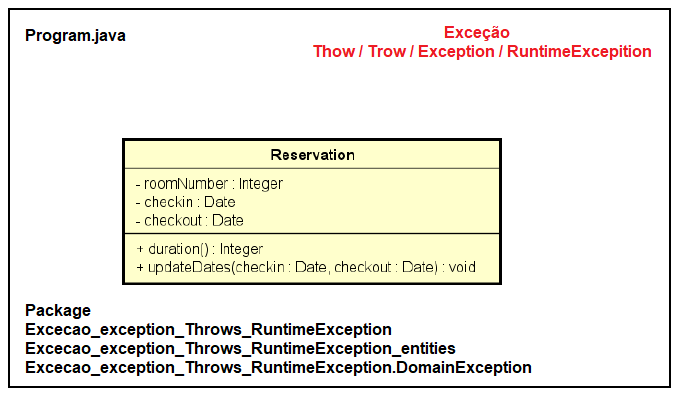
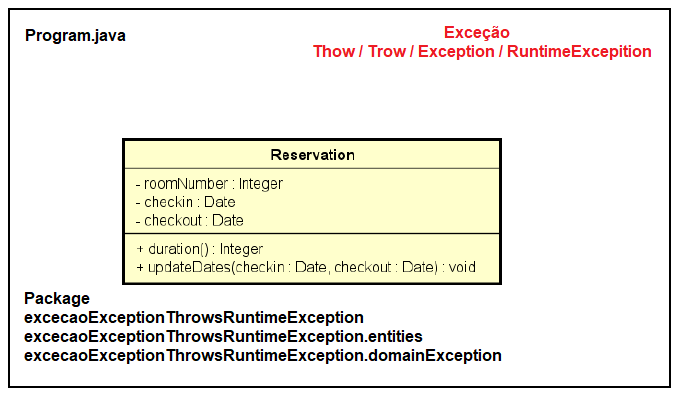
Exceção com Exception_Throws_RuntimeException

Changed region(s): [[0.0308, 0.7291, 0.8018, 0.9722]]

diff --git a/src/excecaoExceptionThrowsRuntimeException/Program.java b/src/excecaoExceptionThrowsRuntimeException/Program.java
@@ -1,12 +1,13 @@
-package Excecao_Exception_Throws_RuntimeException;
+package excecaoExceptionThrowsRuntimeException;
 
 import java.text.ParseException;
 import java.text.SimpleDateFormat;
 import java.util.Date;
 import java.util.Scanner;
 
-import Excecao_Exception_Throws_RuntimeException.DomainException.DomainException;
-import Excecao_Exception_Throws_RuntimeException.entities.Reservation;
+import excecaoExceptionThrowsRuntimeException.domainException.DomainException;
+import excecaoExceptionThrowsRuntimeException.entities.Reservation;
+
 
 public class Program {
 

diff --git a/src/excecaoExceptionThrowsRuntimeException/entities/Reservation.java b/src/excecaoExceptionThrowsRuntimeException/entities/Reservation.java
@@ -1,10 +1,10 @@
-package Excecao_Exception_Throws_RuntimeException.entities;
+package excecaoExceptionThrowsRuntimeException.entities;
 
 import java.text.SimpleDateFormat;
 import java.util.Date;
 import java.util.concurrent.TimeUnit;
 
-import Excecao_Exception_Throws_RuntimeException.DomainException.DomainException;
+import excecaoExceptionThrowsRuntimeException.domainException.DomainException;
 
 public class Reservation {
 

diff --git a/src/excecaoExceptionThrowsRuntimeException/domainException/DomainException.java b/src/excecaoExceptionThrowsRuntimeException/domainException/DomainException.java
@@ -1,4 +1,4 @@
-package Excecao_Exception_Throws_RuntimeException.DomainException;
+package excecaoExceptionThrowsRuntimeException.domainException;
 
 public class DomainException extends RuntimeException {
 	private static final long serialVersionUID = 1L;
